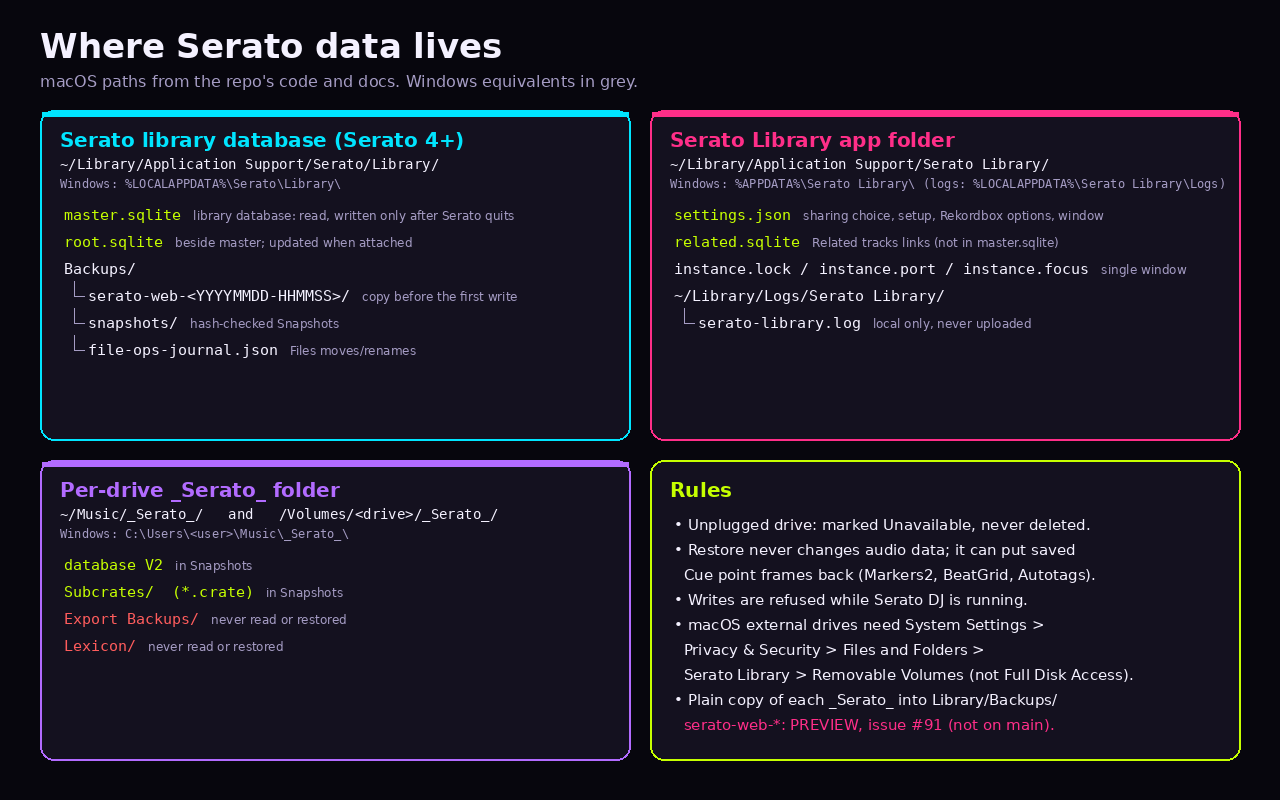
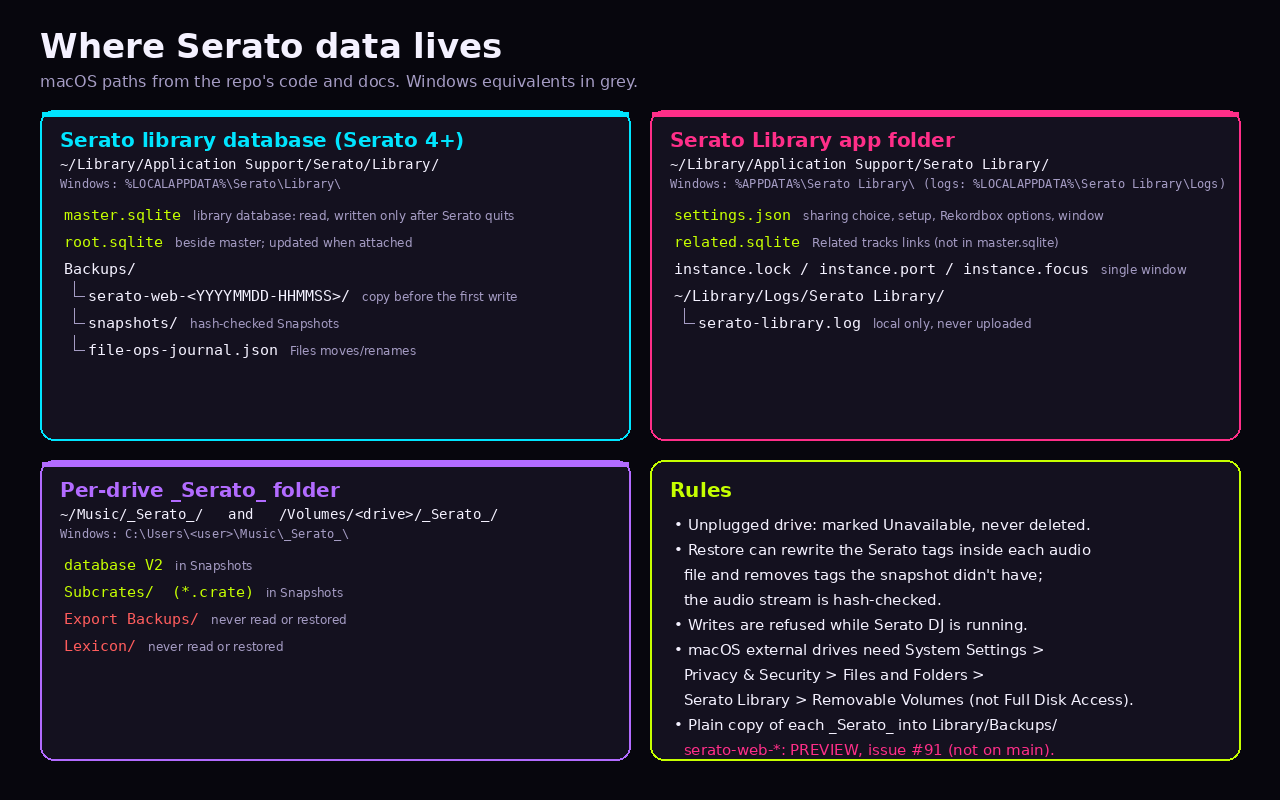
Replace the data-lives diagram with the updated restore wording.
The caption no longer says the Rules box uses older wording.

Changed region(s): [[0.5312, 0.6562, 0.875, 0.9688]]

diff --git a/docs/wiki/Where-Serato-Data-Lives.md b/docs/wiki/Where-Serato-Data-Lives.md
@@ -2,7 +2,7 @@
 
 <figure>
   <img alt="A diagram of the Serato library folder, the Serato Library app folder, each drive's _Serato_ folder, and the rules for those files." src="images/features/where-serato-data-lives.png">
-  <figcaption>Example data. This is a diagram, not a screenshot. The paths in it are examples. The Rules box uses older wording for restore. The paragraph under the diagram is what restore does.</figcaption>
+  <figcaption>Example data. This is a diagram, not a screenshot. The paths in it are examples.</figcaption>
 </figure>
 
 ```mermaid
